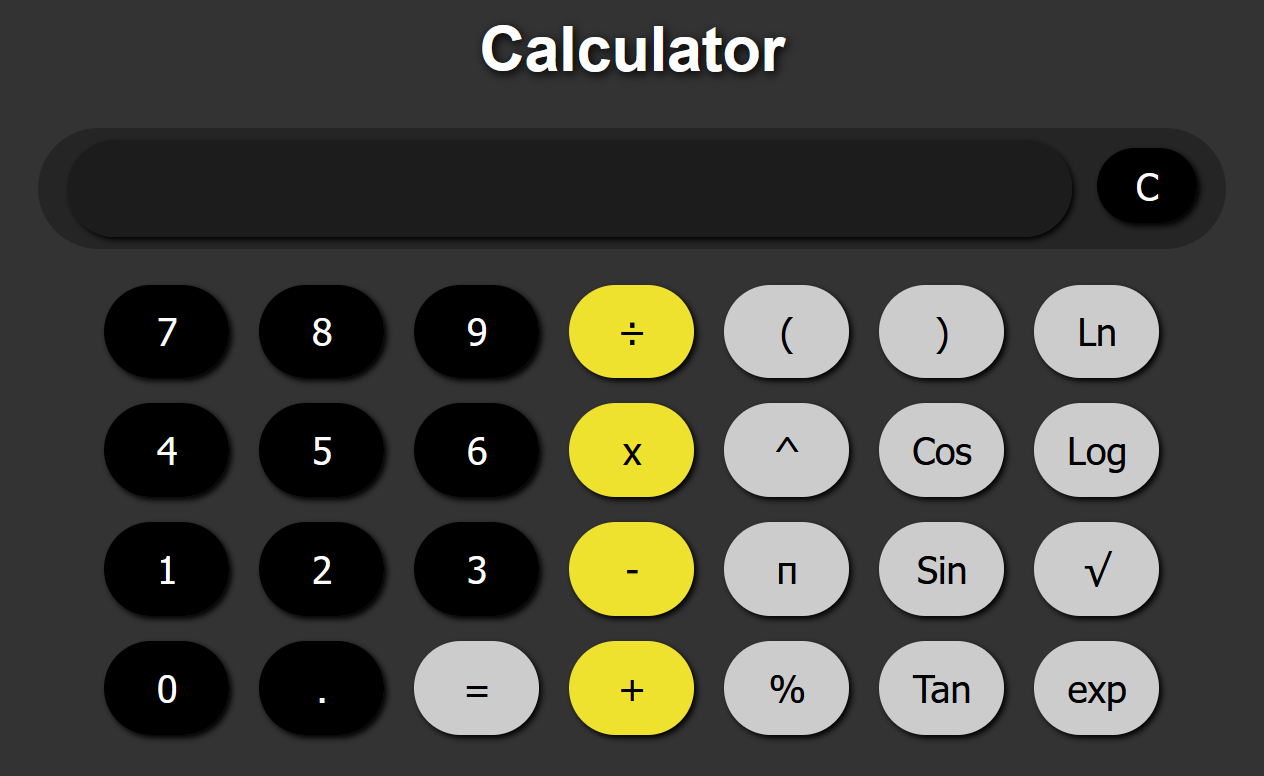
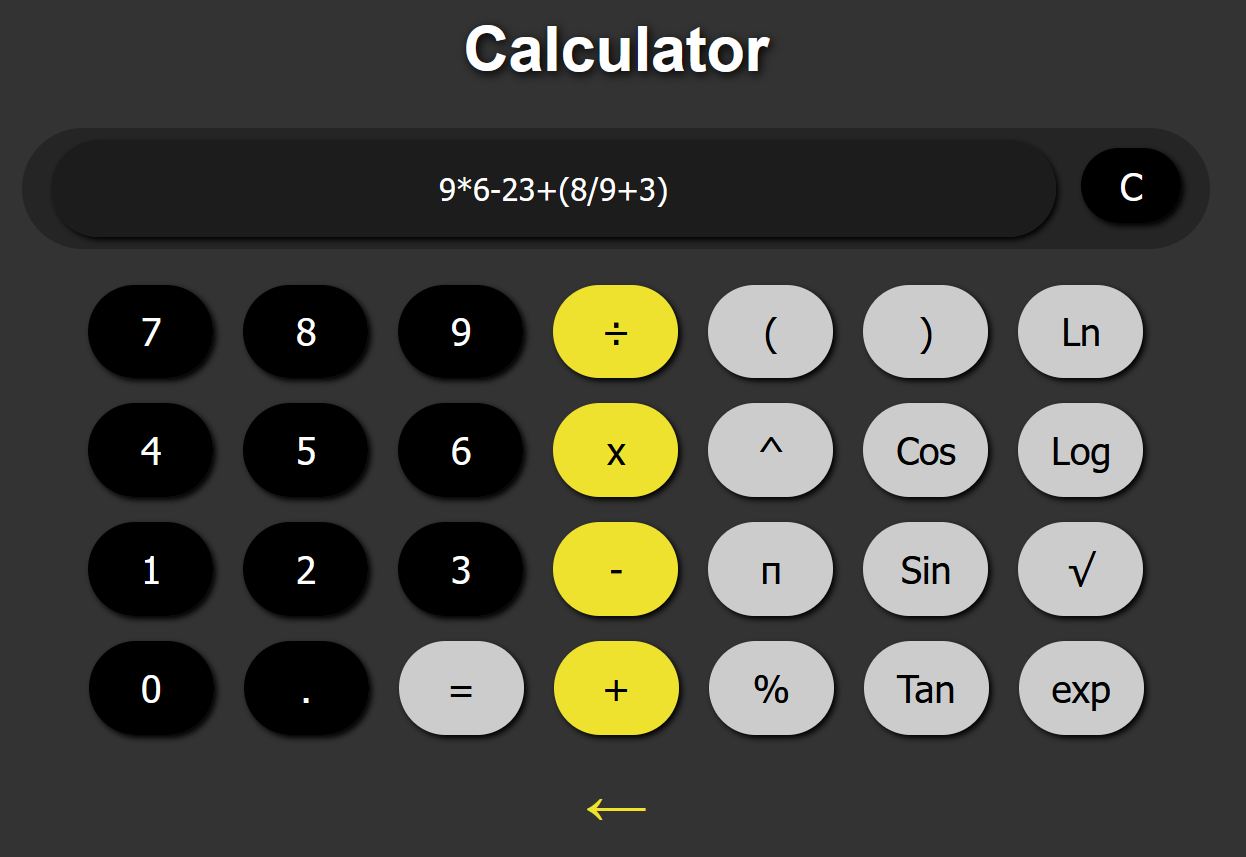
Add files via upload

diff --git a/style.css b/style.css
@@ -1,3 +1,34 @@
+h1 {
+    font-size: 50px;
+    color: #fff;
+    font-family: Arial ;
+    text-shadow: 2px 2px 8px black;
+}
+
+body {
+    background-color: #333;
+    text-align: center;
+    user-select: none;
+}
+
+a {
+    text-decoration: none;
+    color: #efe22e;
+    font-size: 50px;
+}
+
+a:hover {
+    color:white;
+}
+
+div {
+    background-color: #252525;
+    width: 950px;
+    border-radius: 50px;
+    margin: auto;
+    text-align: center;
+}
+
 input {
     width: 100px;
     height: 75px;
@@ -6,38 +37,35 @@ input {
     margin: 10px;
     background-color: #000;
     color: #fff;
-    border-style: none;
+    border: none;
     box-shadow: 2px 2px 4px black;
+    cursor: pointer;
+    transition: 0.2s;
 }
 
 input:hover {
     background-color:#222;
 }
 
-#clear {
-    width: 80px;
-    height: 60px;
-    font-size: 30px;
-    border-radius: 50px;
-    margin: 10px;
-    background-color: #000;
-    color: #fff;
-    border-style: none;
-    box-shadow: 2px 2px 4px black;
-}
-
-#clear:hover {
-    background-color: rgb(53, 28, 28);
-}
-
 .lol {
     color: #000;
     background-color: #efe22e;
+    cursor: pointer;
+    transition: 0.2s;
 }
 
 .lol2 {
     color: #000;
     background-color: #ccc;
+    cursor: pointer;
+    transition: 0.2s;
+}
+
+.lol3 {
+    color: #000;
+    background-color: #ccc;
+    cursor: pointer;
+    transition: 0.2s;
 }
 
 .lol:hover {
@@ -48,45 +76,39 @@ input:hover {
     background-color: #fff;
 }
 
-.lol3 {
-    color: #000;
-    background-color: #ccc;
-}
-
 .lol3:hover {
     background-color: #fff;
 }
 
-h1 {
-    font-size: 50px;
-    color: #fff;
-    font-family: Arial ;
-    text-shadow: 2px 2px 8px black;
-}
-
-body {
-    background-color: #333;
-}
-
-div {
-    background-color: #252525;
-    width: 950px;
+#clear {
+    width: 80px;
+    height: 60px;
+    font-size: 30px;
     border-radius: 50px;
+    margin: 10px;
+    background-color: #000;
+    color: #fff;
+    border: none;
+    box-shadow: 2px 2px 4px black;
+    cursor: pointer;
+    transition: 0.2s;
+}
+
+#clear:hover {
+    background-color: rgb(53, 28, 28);
 }
 
 #display {
     width: 800px;
     height: 75px;
-    text-align: center;
     background-color:rgb(28, 28, 28);
     font-size: 25px;
+    cursor: default;
+    text-align: center;
+    user-select: contain;
 }
 
 @media only screen and (max-width: 1000px) {
-    #display {
-        width: 90%;
-        height: 60px;
-    }
     input {
         width: 60px;
         height: 60px;
@@ -94,6 +116,10 @@ div {
     }
     div {
         width: 95%;
+    }
+    #display {
+        width: 90%;
+        height: 60px;
     }
 }
 

diff --git a/index.html b/index.html
@@ -1,12 +1,14 @@
 <!DOCTYPE html>
+<html lang="en">
 <head>
     <meta charset="utf-8">
     <meta name="viewport" content="width=device-width, user-scalable=no">
     <link rel="stylesheet" href="style.css">
-    <title>Calculator</title>
+    <title>Calculator | PouletEnSlip</title>
+    <meta name="robots" content="noindex, nofollow">
 </head>
 <body>
-    <center><h1>Calculator</h1>
+    <h1>Calculator</h1>
     <form name="calc">
         <div><input id="display" type="text" id="myInput" value="" disabled></input><button id="clear" onclick="document.getElementById('myInput').value=''" title="Clear">C</button></div></br> 
         <input type="button" value="7" onClick="calc.display.value+='7'">
@@ -36,7 +38,8 @@
         <input class="lol" type="button" value="+" onClick="calc.display.value+='+'">
         <input class="lol3" type="button" value="%" onClick="calc.display.value+='/100'">
         <input class="lol3" type="button" value="Tan" onClick="calc.display.value+='Math.tan('">
-        <input class="lol3" type="button" value="exp" onClick="calc.display.value+='Math.exp('"></br>
-    </form></center>
+        <input class="lol3" type="button" value="exp" onClick="calc.display.value+='Math.exp('">
+    </form></br>
+    <a href="../">&#x2190;</a>
 </body>
 </html>
